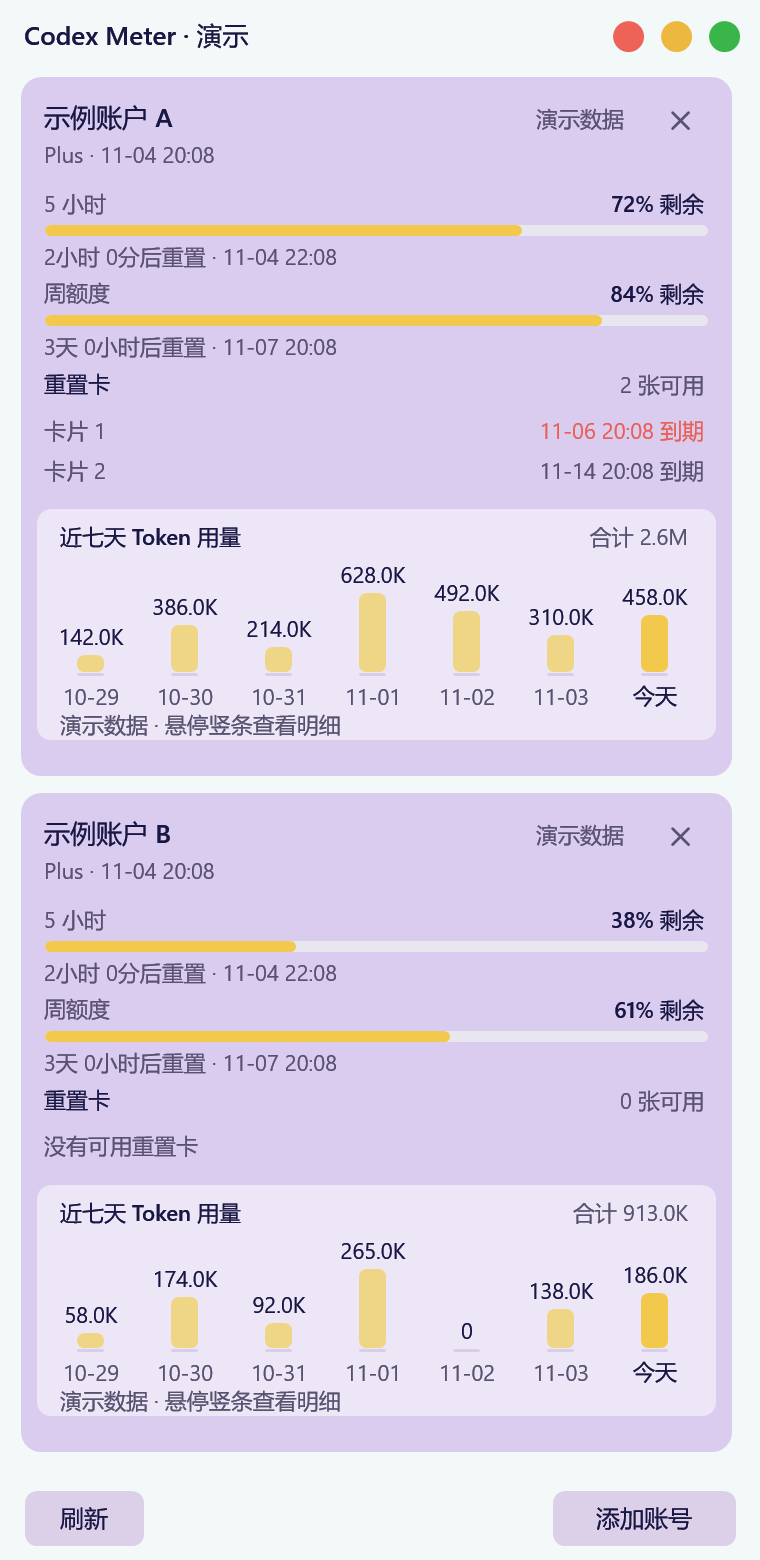
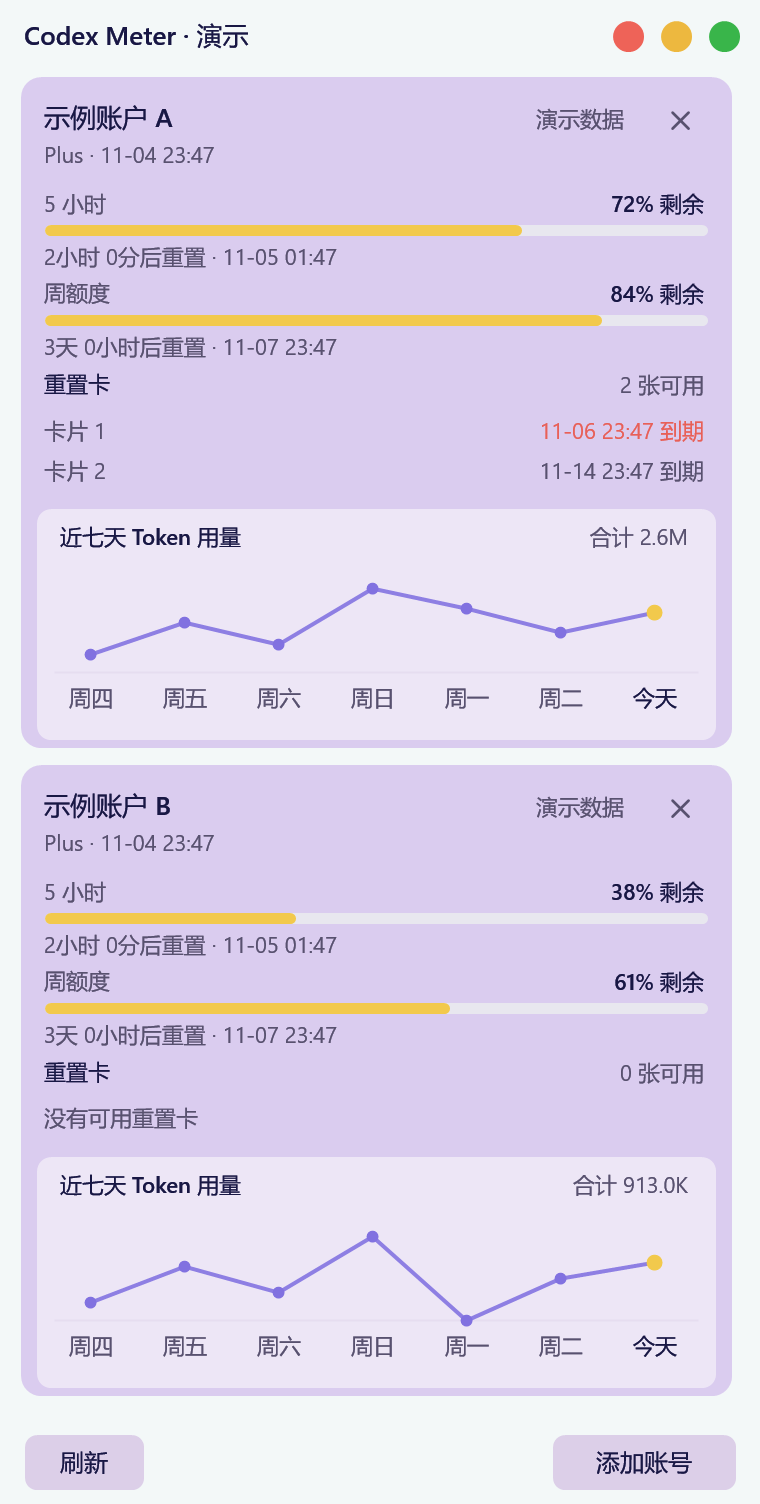
ui: refine weekly usage curve and docked quota rings

diff --git a/src/main.cpp b/src/main.cpp
@@ -22,7 +22,7 @@ using namespace meter;
 namespace {
 constexpr UINT WM_RESULTS=WM_APP+1,WM_TRAY=WM_APP+2,WM_DOCK=WM_APP+3;
 constexpr int HEADER=34,FOOTER=42;
-constexpr int DETAIL_WIDTH=380,DETAIL_GAP=8,USAGE_HEIGHT=116,USAGE_SPACE=130;
+constexpr int DETAIL_WIDTH=380,DETAIL_GAP=8,USAGE_HEIGHT=116,USAGE_SPACE=116;
 constexpr COLORREF BG=RGB(243,248,248),SURFACE=RGB(248,240,226),CARD=RGB(218,204,239),
     BUTTON=RGB(220,207,232),TRACK=RGB(232,231,239),INK=RGB(24,23,68),
     MUTED=RGB(88,81,111),LINE=RGB(250,246,235),ACCENT=RGB(129,113,224),
@@ -166,7 +166,7 @@ void progress(HDC dc,int x,int y,int w,int h,const std::optional<double>& value,
 }
 void ringColor(HDC dc,int cx,int cy,int radius,const std::optional<double>& value,bool old,COLORREF preferred) {
     auto color=old?(preferred==WARM?RGB(189,178,138):RGB(154,146,183)):preferred;
-    drawQuotaRing(dc,px(cx),px(cy),px(radius),px(5),value,TRACK,color);
+    drawQuotaRing(dc,px(cx),px(cy),px(radius),px(4),value,TRACK,color);
 }
 void ring(HDC dc,int cx,int cy,int radius,const std::optional<double>& value,bool old) {
     ringColor(dc,cx,cy,radius,value,old,WARM);
@@ -377,6 +377,13 @@ std::array<std::string,7> usageDates() {
     }
     return dates;
 }
+std::wstring usageDayLabel(int index) {
+    if(index==6)return L"今天";
+    auto now=std::time(nullptr);std::tm today{};localtime_s(&today,&now);
+    static const wchar_t* names[]={L"周日",L"周一",L"周二",L"周三",L"周四",L"周五",L"周六"};
+    const int weekday=(today.tm_wday-(6-index)+14)%7;
+    return names[weekday];
+}
 std::wstring tokenAmount(long double value) {
     const wchar_t* unit=L"";
     if(value>=1e9L){value/=1e9L;unit=L"B";}else if(value>=1e6L){value/=1e6L;unit=L"M";}
@@ -388,23 +395,39 @@ void usageChart(HDC dc,const View& v,int top,int width) {
     const int left=22,area=width-44,step=area/7,baseline=top+82;
     box(dc,left-4,top,area+8,USAGE_HEIGHT,RGB(237,230,246),14);
     text(dc,L"近七天 Token 用量",left+8,top+5,150,18,INK,11,FW_MEDIUM);
-    auto dates=usageDates();long double total=0,peak=1;int known=0;
+    auto dates=usageDates();long double total=0,peak=1;int knownCount=0;
     for(const auto& date:dates) {auto it=v.usage.days.find(date);if(it!=v.usage.days.end()){
-        total+=it->second;peak=std::max(peak,static_cast<long double>(it->second));++known;}}
-    const auto summary=known?(known==7?L"合计 ":L"已知合计 ")+tokenAmount(total):L"暂无数据";
+        total+=it->second;peak=std::max(peak,static_cast<long double>(it->second));++knownCount;}}
+    const auto summary=knownCount?(knownCount==7?L"合计 ":L"已知合计 ")+tokenAmount(total):L"暂无数据";
     text(dc,summary,left+150,top+5,area-160,18,MUTED,9,FW_NORMAL,DT_RIGHT|DT_VCENTER|DT_SINGLELINE);
+    std::array<Gdiplus::PointF,7> points{};std::array<bool,7> hasData{};
     for(int i=0;i<7;++i) {
-        int cx=left+step*i+step/2;auto it=v.usage.days.find(dates[i]);bool has=it!=v.usage.days.end();
-        const int height=has&&it->second>0?std::max(2,static_cast<int>(it->second/peak*40)):0;
-        box(dc,cx-7,baseline,14,2,RGB(217,206,232),2);
-        if(height)box(dc,cx-7,baseline-height,14,height,i==6?WARM:RGB(239,214,134),7);
-        text(dc,has?tokenAmount(static_cast<long double>(it->second)):L"—",cx-step/2,baseline-height-16,step,14,has?INK:MUTED,9,FW_NORMAL,DT_CENTER|DT_VCENTER|DT_SINGLELINE);
-        text(dc,i==6?L"今天":wide(dates[i].substr(5)),cx-step/2,baseline+4,step,16,i==6?INK:MUTED,9,i==6?FW_MEDIUM:FW_NORMAL,DT_CENTER|DT_VCENTER|DT_SINGLELINE);
+        int cx=left+step*i+step/2;auto it=v.usage.days.find(dates[i]);
+        hasData[i]=it!=v.usage.days.end();
+        const int height=hasData[i]&&it->second>0?std::max(3,static_cast<int>(it->second/peak*42)):0;
+        points[i]=Gdiplus::PointF(static_cast<float>(px(cx)),static_cast<float>(px(baseline-height)));
     }
-    std::wstring note=demo?L"演示数据 · 悬停竖条查看明细":!v.usage.message.empty()?wide(v.usage.message):
-        v.usageUpdated?L"更新 "+date(v.usageUpdated)+L" · 按服务日期展示":
-        !v.usageChecked?L"正在等待每日用量；可按 F5 刷新":L"服务未提供这七天的用量";
-    text(dc,note,left+8,top+101,area-16,14,MUTED,10);
+    {
+        Gdiplus::Graphics graphics(dc);graphics.SetSmoothingMode(Gdiplus::SmoothingModeAntiAlias);
+        Gdiplus::Pen track(Gdiplus::Color(95,217,206,232),static_cast<float>(px(1)));
+        graphics.DrawLine(&track,static_cast<float>(px(left+5)),static_cast<float>(px(baseline)),
+            static_cast<float>(px(left+area-5)),static_cast<float>(px(baseline)));
+        Gdiplus::Pen curve(Gdiplus::Color(225,129,113,224),static_cast<float>(std::lround(2.2*scale)));
+        curve.SetStartCap(Gdiplus::LineCapRound);curve.SetEndCap(Gdiplus::LineCapRound);curve.SetLineJoin(Gdiplus::LineJoinRound);
+        for(int i=1;i<7;++i)if(hasData[i]&&hasData[i-1])graphics.DrawLine(&curve,points[i-1],points[i]);
+        for(int i=0;i<7;++i) {
+            const float radius=static_cast<float>(px(i==6?4:3));
+            Gdiplus::SolidBrush dot(Gdiplus::Color(255,GetRValue(i==6?WARM:ACCENT),GetGValue(i==6?WARM:ACCENT),GetBValue(i==6?WARM:ACCENT)));
+            if(hasData[i])graphics.FillEllipse(&dot,points[i].X-radius,points[i].Y-radius,radius*2,radius*2);
+            else graphics.DrawEllipse(&curve,static_cast<float>(px(left+step*i+step/2))-radius,
+                static_cast<float>(px(baseline))-radius,radius*2,radius*2);
+        }
+    }
+    for(int i=0;i<7;++i) {
+        int cx=left+step*i+step/2;
+        text(dc,usageDayLabel(i),cx-step/2,baseline+5,step,16,i==6?INK:MUTED,9,i==6?FW_MEDIUM:FW_NORMAL,DT_CENTER|DT_VCENTER|DT_SINGLELINE);
+    }
+    if(!v.usage.message.empty())text(dc,wide(v.usage.message),left+8,top+101,area-16,14,MUTED,10);
 }
 void detail(HDC dc,const View& v,int y,int w,int index) {
     int height=cardHeight(v);
@@ -876,9 +899,14 @@ LRESULT CALLBACK proc(HWND hwnd,UINT msg,WPARAM wp,LPARAM lp){
                         RECT client{};GetClientRect(hwnd,&client);int step=(logical(client.right)-48)/7;
                         if(y>=chart+24&&y<chart+102&&x>=22&&x<22+step*7) {
                             int day=(x-22)/step;auto dates=usageDates();auto found=v.usage.days.find(dates[day]);
-                            tooltipText=compactName(v.profile)+L"\n"+wide(dates[day])+L"（服务日期）\n"+
-                                (found==v.usage.days.end()?L"无数据":std::to_wstring(found->second)+L" Tokens");
-                            if(demo)tooltipText+=L"\n演示数据";
+                            long double peak=1;for(const auto& dateValue:dates){auto value=v.usage.days.find(dateValue);if(value!=v.usage.days.end())peak=std::max(peak,static_cast<long double>(value->second));}
+                            const int pointX=22+step*day+step/2;
+                            const int pointY=chart+82-(found!=v.usage.days.end()&&found->second>0?std::max(3,static_cast<int>(found->second/peak*42)):0);
+                            if(std::abs(x-pointX)<=12&&std::abs(y-pointY)<=12) {
+                                tooltipText=compactName(v.profile)+L"\n"+wide(dates[day])+L"（服务日期）\n"+
+                                    (found==v.usage.days.end()?L"无数据":std::to_wstring(found->second)+L" Tokens");
+                                if(demo)tooltipText+=L"\n演示数据";
+                            }
                         }
                     }
                 } else tooltipText=L"拖动顶栏移动；右键打开设置";

diff --git a/src/ring_renderer.hpp b/src/ring_renderer.hpp
@@ -1,23 +1,26 @@
 #pragma once
 #include "ui_geometry.hpp"
 #include <windows.h>
+#include <gdiplus.h>
 #include <optional>
 namespace meter {
 inline void drawQuotaRing(HDC dc,int cx,int cy,int radius,int thickness,
                           std::optional<double> remaining,COLORREF track,COLORREF color) {
-    const int saved=SaveDC(dc);
-    SelectObject(dc,GetStockObject(NULL_BRUSH));
-    auto trackPen=CreatePen(PS_SOLID,thickness,track);
-    auto originalPen=SelectObject(dc,trackPen);
-    Ellipse(dc,cx-radius,cy-radius,cx+radius,cy+radius);
-    SelectObject(dc,originalPen);DeleteObject(trackPen);
+    Gdiplus::Graphics graphics(dc);graphics.SetSmoothingMode(Gdiplus::SmoothingModeAntiAlias);
+    graphics.SetPixelOffsetMode(Gdiplus::PixelOffsetModeHalf);
+    auto colorOf=[](COLORREF value){return Gdiplus::Color(255,GetRValue(value),GetGValue(value),GetBValue(value));};
+    const float diameter=static_cast<float>(radius*2-thickness);
+    const Gdiplus::RectF bounds(static_cast<float>(cx-radius)+thickness*.5f,
+        static_cast<float>(cy-radius)+thickness*.5f,diameter,diameter);
+    Gdiplus::Pen trackPen(colorOf(track),static_cast<float>(thickness));
+    graphics.DrawEllipse(&trackPen,bounds);
     const double sweep=remaining?quotaSweep(*remaining):0;
     if(sweep>0) {
-        auto pen=CreatePen(PS_SOLID,thickness,color);SelectObject(dc,pen);
-        if(sweep>=360)Ellipse(dc,cx-radius,cy-radius,cx+radius,cy+radius);
-        else {MoveToEx(dc,cx,cy-radius,nullptr);AngleArc(dc,cx,cy,radius,90.0f,-static_cast<float>(sweep));}
-        SelectObject(dc,originalPen);DeleteObject(pen);
+        Gdiplus::Pen activePen(colorOf(color),static_cast<float>(thickness));
+        activePen.SetStartCap(Gdiplus::LineCapRound);activePen.SetEndCap(Gdiplus::LineCapRound);
+        activePen.SetLineJoin(Gdiplus::LineJoinRound);
+        if(sweep>=360)graphics.DrawEllipse(&activePen,bounds);
+        else graphics.DrawArc(&activePen,bounds,-90.0f,static_cast<float>(sweep));
     }
-    RestoreDC(dc,saved);
 }
 }

diff --git a/tests/render_tests.cpp b/tests/render_tests.cpp
@@ -16,14 +16,23 @@ int main() {
         const COLORREF background=RGB(20,20,20),track=RGB(210,200,235),fill=RGB(240,210,130);
         auto backgroundBrush=CreateSolidBrush(background);
         RECT rect{0,0,128,128};
+        auto nearColor=[&](int x,int y,COLORREF expected) {
+            for(int dy=-1;dy<=1;++dy)for(int dx=-1;dx<=1;++dx) {
+                COLORREF actual=GetPixel(dc,x+dx,y+dy);
+                if(std::abs(static_cast<int>(GetRValue(actual))-static_cast<int>(GetRValue(expected)))<36&&
+                   std::abs(static_cast<int>(GetGValue(actual))-static_cast<int>(GetGValue(expected)))<36&&
+                   std::abs(static_cast<int>(GetBValue(actual))-static_cast<int>(GetBValue(expected)))<36)return true;
+            }
+            return false;
+        };
         for(int percent:{0,25,50,75,100}) {
             FillRect(dc,&rect,backgroundBrush);
             meter::drawQuotaRing(dc,64,64,40,5,percent,track,fill);
             // Quadrant midpoints avoid antialiasing and arc endpoint ambiguity.
-            CHECK((GetPixel(dc,92,36)==fill)==(percent>=25));
-            CHECK((GetPixel(dc,92,92)==fill)==(percent>=50));
-            CHECK((GetPixel(dc,36,92)==fill)==(percent>=75));
-            CHECK((GetPixel(dc,36,36)==fill)==(percent>=100));
+            CHECK(nearColor(91,38,fill)==(percent>=25));
+            CHECK(nearColor(91,90,fill)==(percent>=50));
+            CHECK(nearColor(38,90,fill)==(percent>=75));
+            CHECK(nearColor(38,38,fill)==(percent>=100));
             CHECK(GetPixel(dc,64,64)==background); // Full rings must never fill their center.
         }
         DeleteObject(backgroundBrush);

diff --git a/src/version.h b/src/version.h
@@ -1,4 +1,4 @@
 #pragma once
-#define METER_VERSION "0.3.7"
-#define METER_VERSION_W L"0.3.7"
-#define METER_FILE_VERSION 0,3,7,0
+#define METER_VERSION "0.3.8"
+#define METER_VERSION_W L"0.3.8"
+#define METER_FILE_VERSION 0,3,8,0

diff --git a/docs/architecture.md b/docs/architecture.md
@@ -6,7 +6,7 @@ C++17 / Win32 / GDI. No embedded browser or interpreter.
 - src/platform.hpp: UTF-8, Windows handle ownership, atomic metadata persistence, Codex discovery.
 - src/rpc.hpp: bounded JSONL transport; explicit inherited handles; process tree Job Object; handshake; managed login; query; deadlines and cancellation.
 - src/worker.hpp: separate FIFO lanes for login and normal queries (at most two helpers); typed cancellation and fresh post-login sessions; results delivered through a mutex-protected event queue.
-- src/ui_geometry.hpp and ring_renderer.hpp: shared hit tests, edge/scroll geometry and tested GDI ring rendering.
+- src/ui_geometry.hpp and ring_renderer.hpp: shared hit tests, edge/scroll geometry and antialiased rounded ring rendering.
 - src/main.cpp: compact/detail renderer, native buttons, tray, profile actions, DPI/position persistence and refresh scheduling.
 - src/usage.hpp and usage_cache.hpp: validated daily token buckets, bounded per-profile atomic cache with account identity binding; no chat log ingestion.
 - src/surface_renderer.hpp: antialiased shape masks composited into the shared top-down premultiplied DIB surfaces, preserving fractional alpha at glass edges and respecting the content clip.

diff --git a/docs/images/README.md b/docs/images/README.md
@@ -6,8 +6,8 @@
 | --- | --- |
 | compact.png | 640×284，紧凑模式，多账号短周期及周额度 |
 | compact-controls.png | 640×284，悬停红绿灯时的矢量符号 |
-| details.png | 760×1560，多账号完整详情与七天用量图 |
-| account-preview.png | 760×884，单账号详情、重置卡和七天用量图 |
+| details.png | 760×1504，多账号完整详情与七天趋势曲线 |
+| account-preview.png | 760×856，单账号详情、重置卡和七天趋势曲线 |
 | native-detail-preview.png | 380×442，100% 原生分辨率文字及红绿灯预览 |
 | edge-dock.png | 336×180，贴顶横向收纳，默认文字头像和双额度圆环 |
 | edge-dock-vertical.png | 168×336，左右贴边的纵向收纳 |

diff --git a/RELEASE_NOTES.md b/RELEASE_NOTES.md
@@ -1,8 +1,14 @@
-# Codex Meter v0.3.7
+# Codex Meter v0.3.8
 
 Windows x64 便携版。解压后双击 `codex_meter.exe`，无需安装。
 
 ## 本次更新
+
+- 七天 Token 用量改为趋势曲线，底部只显示周几和今天，去掉更新时间提示。
+- 悬停对应圆点显示当天服务日期和完整 Token 数，只有靠近圆点才触发。
+- 收纳圆环改为 4px 抗锯齿圆头轨道，内外圈间距和中心头像层次更细致。
+
+## 最近的字体更新
 
 - 字体改为 Windows Codex 同类的 Segoe UI 系统字体栈，中文使用系统回退字体。
 - 通过 DirectWrite 灰度字形渲染提升透明玻璃背景上的文字清晰度，覆盖原生 100% 及常用 DPI 缩放。

diff --git a/CHANGELOG.md b/CHANGELOG.md
@@ -1,3 +1,10 @@
+# 0.3.8 · 2026-11-04
+
+- 七天 Token 用量改为苹果风格趋势曲线，今天使用米黄色圆点强调，底部去掉更新时间和服务日期提示。
+- 仅在指针靠近对应曲线圆点时显示当天服务日期和完整 Token 数，避免误触发。
+- 收纳圆环使用 4px 抗锯齿圆头轨道、柔和轨道底色和更清晰的内外圈层次。
+- 详情卡高度同步收紧，更新原生尺寸演示图和圆环像素检查。
+
 # 0.3.7 · 2026-11-04
 
 - 使用 Windows Codex 同类的 Segoe UI 系统字体栈，中文沿用系统字体回退。
